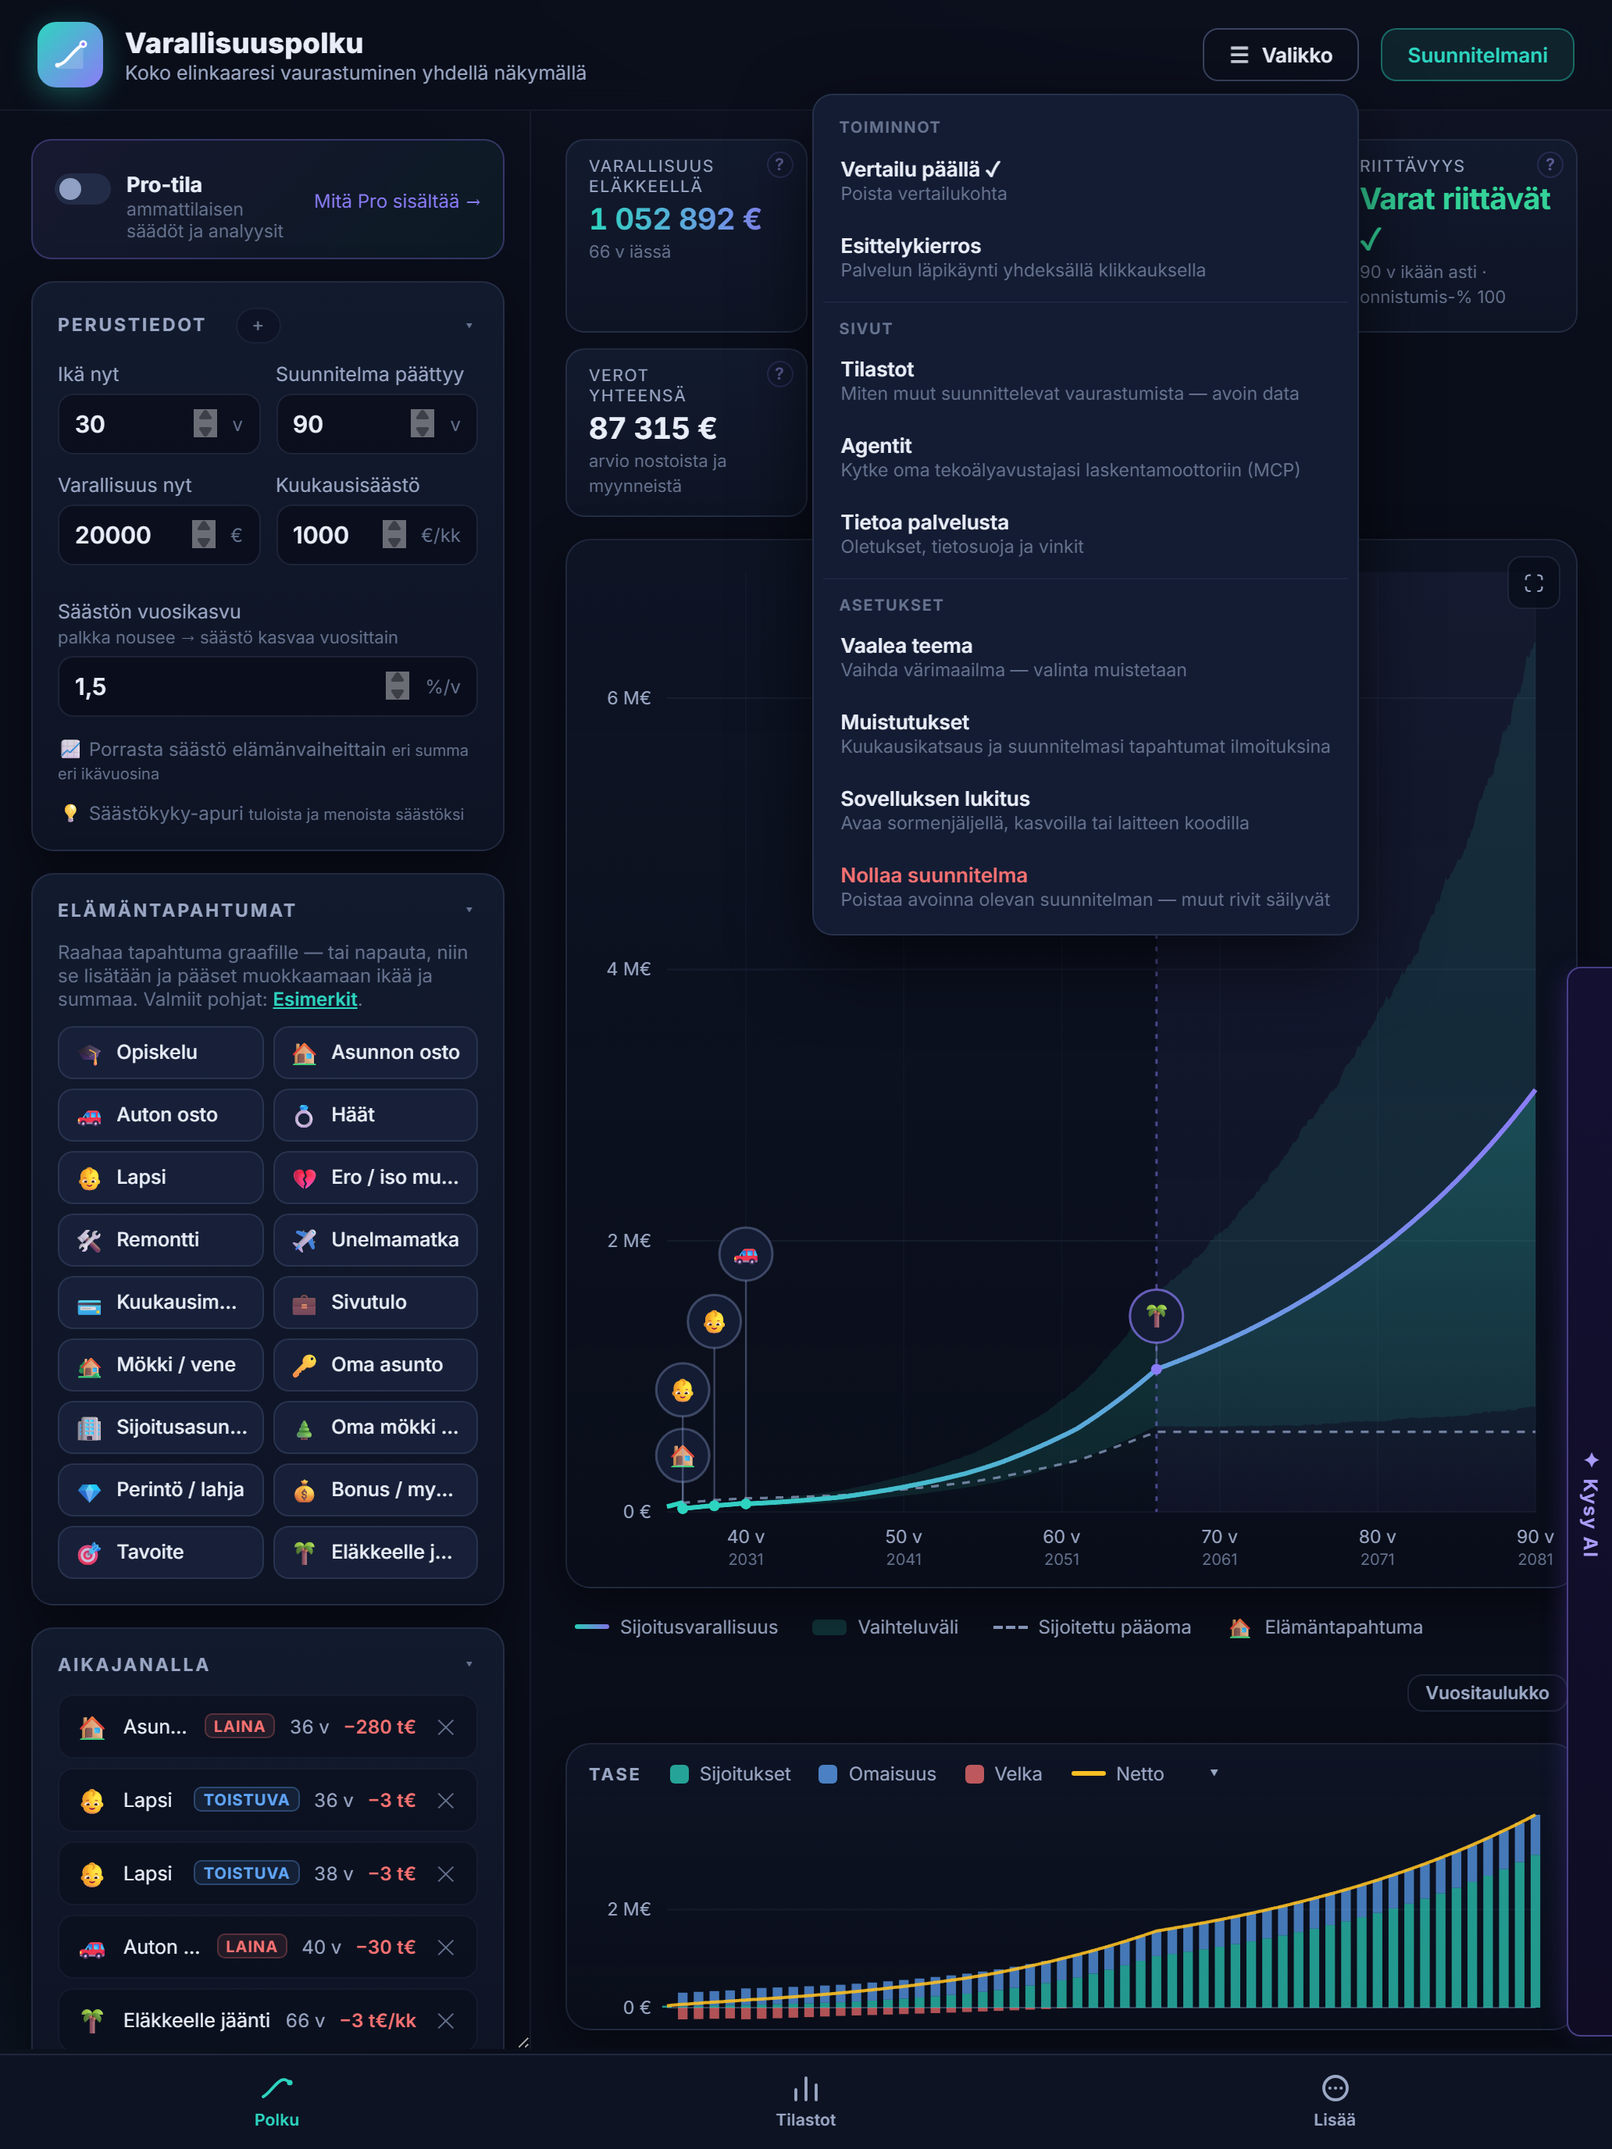
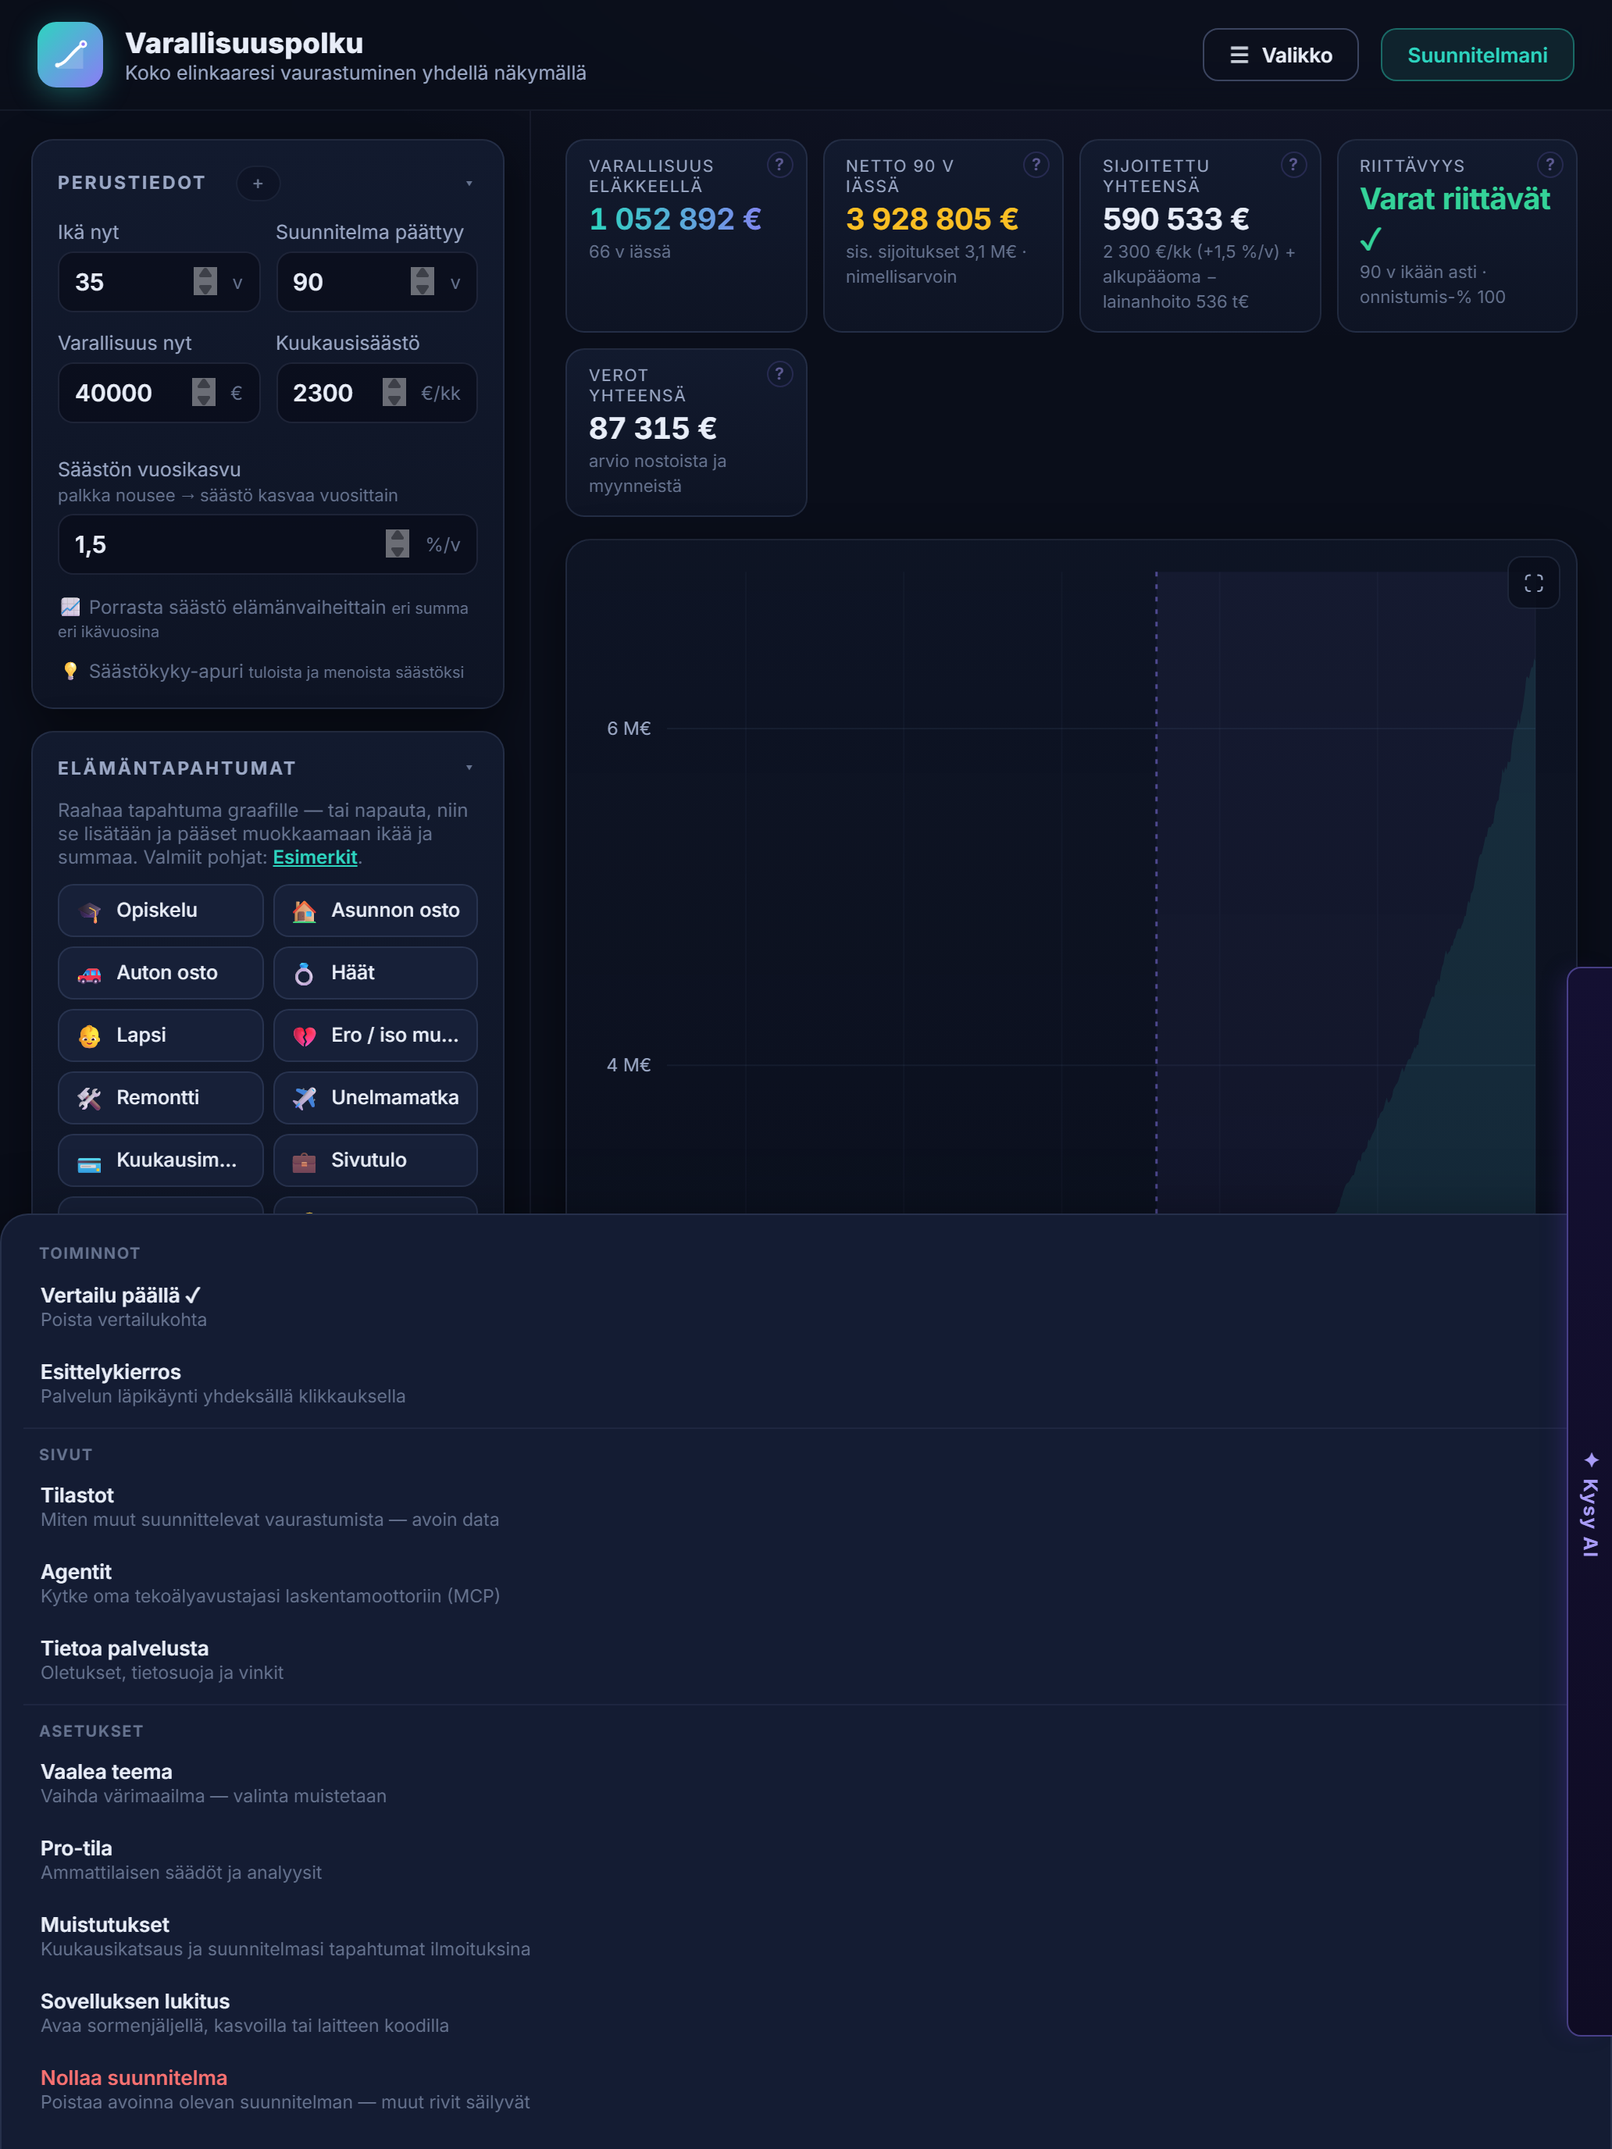
Appin käytettävyyserä (Olavin laitehavainnot #2, kaikki neljä esitystä hyväksytty): (1) Valikot bottom sheetinä appissa — ☰/esimerkit nousevat alhaalta koko leveydeltä (CSS-ohitus alapalkki.js:ssä), ja Tilastot-sivun Lisää avaa oman sheetin paikan päällä (Agentit, teema, natiivirivit) — ei enää hypp

diff --git a/alapalkki.js b/alapalkki.js
@@ -37,6 +37,17 @@
     /* piirtopöytä ja esittelykierros saavat koko ruudun */
     'body.fs .vp-tabbar{display:none;}',
     'body.fs.vp-has-tabbar{padding-bottom:0 !important;}',
+    /* valikot bottom sheetinä: appimainen tapa — nousee alhaalta koko leveydeltä
+       (sovellus.js asemoi valikon inlinena ankkurin alle → !important ohittaa) */
+    'body.vp-has-tabbar .menu{position:fixed !important;top:auto !important;left:0 !important;right:0 !important;bottom:0 !important;',
+    ' max-width:none;border-radius:18px 18px 0 0;border-bottom:0;max-height:75vh;overflow-y:auto;z-index:130;',
+    ' padding:10px 14px calc(14px + env(safe-area-inset-bottom,0px));animation:vp-sheet-up 0.22s ease;}',
+    '@keyframes vp-sheet-up{from{transform:translateY(28px);opacity:0.5}to{transform:none;opacity:1}}',
+    /* appin etusivu tiiviimmäksi (Olavin laitehavainnot 5.8.): UKK-kortti on
+       webin hakukonesisältöä — appissa sama tieto on valikon Tietoa-sivulla;
+       Pro-kytkin siirtyy valikon Asetuksiin (sovellus.js lisää rivin) */
+    'body.vp-has-tabbar .card[data-card=about]{display:none;}',
+    'body.vp-has-tabbar .pro-switch{display:none;}',
   ].join('');
 
   var ICONS = {
@@ -44,6 +55,54 @@
     tilastot: '<svg width="22" height="22" viewBox="0 0 22 22" fill="none" stroke="currentColor" stroke-width="1.9" stroke-linecap="round" aria-hidden="true"><line x1="4.5" y1="18.5" x2="4.5" y2="12"/><line x1="11" y1="18.5" x2="11" y2="4.5"/><line x1="17.5" y1="18.5" x2="17.5" y2="9"/></svg>',
     lisaa: '<svg width="22" height="22" viewBox="0 0 22 22" fill="none" stroke="currentColor" stroke-width="1.9" stroke-linecap="round" aria-hidden="true"><circle cx="11" cy="11" r="7.5"/><circle cx="7.4" cy="11" r="1.05" fill="currentColor" stroke="none"/><circle cx="11" cy="11" r="1.05" fill="currentColor" stroke="none"/><circle cx="14.6" cy="11" r="1.05" fill="currentColor" stroke="none"/></svg>',
   };
+
+  /* Tilastot-sivun Lisää-sheet: samat ryhmät kuin ☰-valikossa siltä osin kuin
+     ne toimivat ilman etusivun skriptejä; natiivirivit (muistutukset, lukitus)
+     tulevat natiivilisat.js:n koukusta. */
+  var sheetEl = null;
+  function suljeSheet() {
+    if (sheetEl) { sheetEl.remove(); sheetEl = null; document.removeEventListener('click', sheetUlkoklikki, true); }
+  }
+  function sheetUlkoklikki(e) {
+    if (sheetEl && !sheetEl.contains(e.target)) suljeSheet();
+  }
+  function vaihdaTeema() {
+    var light = !document.documentElement.classList.contains('light');
+    document.documentElement.classList.toggle('light', light);
+    var m = document.querySelector('meta[name="theme-color"]');
+    if (m) m.setAttribute('content', light ? '#eef1f8' : '#0a0e1a');
+    try { localStorage.setItem('vp-theme', light ? 'light' : 'dark'); } catch (e) {}
+  }
+  function avaaSheet() {
+    if (sheetEl) { suljeSheet(); return; }
+    var menu = document.createElement('div');
+    menu.className = 'menu';
+    var sect = function (label) {
+      var s = document.createElement('div');
+      s.className = 'msect';
+      s.textContent = label;
+      menu.appendChild(s);
+    };
+    var add = function (id, name, desc, fn) {
+      var b = document.createElement('button');
+      b.id = id;
+      b.innerHTML = '<div>' + name + '</div><div class="mdesc">' + desc + '</div>';
+      b.addEventListener('click', function () { suljeSheet(); if (fn) fn(); });
+      menu.appendChild(b);
+      return b;
+    };
+    sect('Sivut');
+    add('mi-agents', 'Agentit', 'Kytke oma tekoälyavustajasi laskentamoottoriin (MCP)',
+      function () { location.href = './agentit.html'; });
+    sect('Asetukset');
+    add('mi-theme',
+      document.documentElement.classList.contains('light') ? 'Tumma teema' : 'Vaalea teema',
+      'Vaihda värimaailma — valinta muistetaan', vaihdaTeema);
+    if (window.vpNativeMenu) window.vpNativeMenu(add);
+    document.body.appendChild(menu);
+    sheetEl = menu;
+    setTimeout(function () { document.addEventListener('click', sheetUlkoklikki, true); }, 0);
+  }
 
   function tab(id, label, act) {
     var el = document.createElement('button');
@@ -80,9 +139,9 @@
       if (typeof window.openMoreMenu === 'function' && btn) {
         window.openMoreMenu(btn);
       } else {
-        /* tilastosivulla ☰-valikkoa ei ole — avataan kotisivun valikko perillä */
-        try { sessionStorage.setItem('vp-avaa-valikko', '1'); } catch (e) {}
-        location.href = './index.html';
+        /* tilastosivulla ☰-valikkoa ei ole — oma sheet suoraan tässä,
+           ei hyppyä etusivulle (Olavin laitehavainto 5.8.) */
+        avaaSheet();
       }
     });
 

diff --git a/testit/selain/verify-natiivilisat.js b/testit/selain/verify-natiivilisat.js
@@ -30,6 +30,10 @@ server.listen(8134, async () => {
       localStorage.setItem('vp-autotour-off', '1');
       localStorage.setItem('vp-veto-vihje', '1');
       if (o.lukitus) localStorage.setItem('vp-lukitus', '1');
+      if (o.plan) {
+        localStorage.setItem('varallisuuspolku-v1', JSON.stringify({ ageNow: 30, ageEnd: 90, startCapital: 10000, monthly: 500, allocStocks: 70, allocBonds: 20, events: [] }));
+        localStorage.setItem('vp-donate-v1', JSON.stringify({ donatedHash: 'abc' }));
+      }
       if (!o.native) return;
       window.__lnSchedule = [];
       window.__lnCancel = [];
@@ -183,14 +187,47 @@ server.listen(8134, async () => {
   ok(pohja.dBottom <= pohja.barTop, 'disclaimer palkin yläpuolella pohjaskrollissa (' + pohja.dBottom + ' ≤ ' + pohja.barTop + ')');
   await ctx.close();
 
-  // 10) Web ilman Capacitoria: ei mitään natiivilisiä
+  // 10) Appin tiivis etusivu (Olavin laitehavainnot): UKK-kortti ja Pro-rivi
+  //     piilossa, tase kiinni oletuksena, Pro-kytkin valikossa, valikko sheetinä
+  ({ ctx, pg } = await page({ native: true }));
+  ok(await pg.evaluate(() => getComputedStyle(document.querySelector('.card[data-card=about]')).display) === 'none', 'UKK-kortti piilossa appissa');
+  ok(await pg.evaluate(() => getComputedStyle(document.querySelector('.pro-switch')).display) === 'none', 'Pro-rivi piilossa appissa');
+  ok(await pg.evaluate(() => document.getElementById('balancePanel').classList.contains('collapsed')), 'tase kiinni oletuksena appissa');
+  await pg.click('#moreBtn');
+  await pg.waitForTimeout(300);
+  ok(await pg.locator('#mi-pro').count() === 1, 'Pro-kytkin valikossa appissa');
+  const sheetR = await pg.evaluate(() => {
+    const r = document.querySelector('.menu').getBoundingClientRect();
+    return { bottom: Math.round(r.bottom), left: Math.round(r.left), ih: window.innerHeight };
+  });
+  ok(sheetR.bottom === sheetR.ih && sheetR.left === 0, 'valikko avautuu bottom sheetinä (' + JSON.stringify(sheetR) + ')');
+  await ctx.close();
+
+  // 11) Tilastot-sivun Lisää avaa sheetin paikan päällä — ei hyppyä etusivulle
+  //     (suunnitelma + jako kylvetty: ilman niitä sivun portti peittäisi palkin)
+  ({ ctx, pg } = await page({ native: true, url: '/analytiikka.html', plan: true }));
+  await pg.click('.vp-tab:nth-child(3)');
+  await pg.waitForTimeout(400);
+  ok(/analytiikka\.html/.test(pg.url()), 'Lisää ei vaihda sivua Tilastoissa');
+  ok(await pg.locator('.menu #mi-theme').count() === 1 && await pg.locator('.menu #mi-muistutukset').count() === 1, 'sheetissä teema ja natiivirivit');
+  await pg.click('.menu #mi-muistutukset');
+  await pg.waitForTimeout(400);
+  ok(await pg.evaluate(() => localStorage.getItem('vp-muistutukset')) === '1', 'muistutukset kytkeytyvät Tilastot-sivulta');
+  ok(await pg.locator('.toast.show').count() === 1, 'varatoast antaa palautteen Tilastot-sivulla');
+  await ctx.close();
+
+  // 12) Web ilman Capacitoria: ei mitään natiivilisiä
   ({ ctx, pg } = await page({ native: false }));
   ok(await pg.evaluate(() => !window.vpNativeMenu), 'webissä ei valikkokoukkua');
   ok(await pg.locator('#vpLukko').count() === 0, 'webissä ei lukituspeitettä');
   await pg.click('#moreBtn');
   await pg.waitForTimeout(300);
   ok(await pg.locator('#mi-muistutukset').count() === 0, 'webissä ei Muistutukset-riviä');
+  ok(await pg.locator('#mi-pro').count() === 0, 'webissä ei Pro-valikkoriviä (rivi paneelissa)');
   ok(await pg.locator('#mi-theme').count() === 1, 'webin valikko ennallaan');
+  ok(await pg.evaluate(() => getComputedStyle(document.querySelector('.card[data-card=about]')).display) !== 'none', 'UKK-kortti näkyy webissä');
+  ok(await pg.evaluate(() => getComputedStyle(document.querySelector('.pro-switch')).display) !== 'none', 'Pro-rivi näkyy webissä');
+  ok(await pg.evaluate(() => !document.getElementById('balancePanel').classList.contains('collapsed')), 'tase auki oletuksena webissä');
   await ctx.close();
 
   await b.close();

diff --git a/sovellus.js b/sovellus.js
@@ -469,6 +469,19 @@ function openMoreMenu(anchor) {
     'Vaihda värimaailma — valinta muistetaan',
     () => applyTheme(!isLightTheme()));
 
+  // Appi: Pro-kytkin valikossa — etusivun kytkinrivi on appissa piilotettu
+  // (alapalkki.js) etusivun tiivistämiseksi; webissä rivi pysyy paneelissa
+  if (window.vpNativeMenu) {
+    add('mi-pro',
+      state.proOn ? 'Pro-tila päällä ✓' : 'Pro-tila',
+      state.proOn ? 'Poista ammattilaissäädöt käytöstä' : 'Ammattilaisen säädöt ja analyysit',
+      () => {
+        // ensimmäinen kytkentä kulkee esittelysivun kautta kuten webissäkin
+        if (!state.proOn && !proSeen()) { openProModal(); return; }
+        setPro(!state.proOn);
+      });
+  }
+
   // Natiiviappi lisää omat rivinsä (muistutukset, lukitus) — webissä koukkua ei ole
   if (window.vpNativeMenu) window.vpNativeMenu(add);
 
@@ -874,7 +887,13 @@ function bindActions() {
   // Tase-paneelin supistus
   const balanceToggle = $('balanceToggle');
   let balCollapsed = false;
-  try { balCollapsed = localStorage.getItem('vp-balance-collapsed') === '1'; } catch (e) {}
+  try {
+    const s = localStorage.getItem('vp-balance-collapsed');
+    // Appi: tase kiinni ensiavauksessa — graafi ja tunnusluvut hallitsevat
+    // ensinäkymää; napautus avaa ja valinta muistetaan (webissä auki kuten ennen)
+    balCollapsed = s != null ? s === '1'
+      : !!(window.Capacitor && window.Capacitor.isNativePlatform && window.Capacitor.isNativePlatform());
+  } catch (e) {}
   if (balCollapsed) { balPanel.classList.add('collapsed'); balanceToggle.textContent = '▸'; }
   balanceToggle.addEventListener('click', () => {
     const c = balPanel.classList.toggle('collapsed');

diff --git a/natiivilisat.js b/natiivilisat.js
@@ -28,8 +28,19 @@
   function aseta(key, on) {
     try { on ? localStorage.setItem(key, '1') : localStorage.removeItem(key); } catch (e) {}
   }
+  var toastEl2 = null, toastTimer2 = null;
   function ilmoita(msg) {
-    if (typeof toast === 'function') toast(msg);
+    if (typeof toast === 'function') { toast(msg); return; }
+    // tilastosivulla ei ole sovellus.js:n toastia — kevyt varatoteutus samalla tyylillä
+    if (!toastEl2) {
+      toastEl2 = document.createElement('div');
+      toastEl2.className = 'toast';
+      document.body.appendChild(toastEl2);
+    }
+    toastEl2.textContent = msg;
+    toastEl2.classList.add('show');
+    clearTimeout(toastTimer2);
+    toastTimer2 = setTimeout(function () { toastEl2.classList.remove('show'); }, 2400);
   }
 
   /* ===================== Muistutukset ===================== */

diff --git a/style.css b/style.css
@@ -764,7 +764,12 @@ input[type="range"]::-moz-range-thumb {
   overflow-y: auto;
   background: rgba(6, 10, 20, 0.82);
   backdrop-filter: blur(6px);
-  padding: 24px 16px 48px;
+  /* fixed-peite ohittaa bodyn safe-area-paddingit — napit (Sulje ym.) eivät
+     saa jäädä iOS:n tilapalkin alle; selaimessa env() on 0 */
+  padding: calc(24px + env(safe-area-inset-top, 0px))
+           calc(16px + env(safe-area-inset-right, 0px))
+           calc(48px + env(safe-area-inset-bottom, 0px))
+           calc(16px + env(safe-area-inset-left, 0px));
 }
 .sum-bar { max-width: 860px; margin: 0 auto 12px; display: flex; flex-wrap: wrap; gap: 10px; justify-content: flex-end; }
 .sum-sheet {

diff --git a/tyokalut/kauppa-kuvat.js b/tyokalut/kauppa-kuvat.js
@@ -53,6 +53,7 @@ server.listen(8135, async () => {
     // Lavastus: esimerkkipersoona "Perhe ja asunto (35 v)"
     await pg.evaluate(() => {
       applySaved(JSON.parse(JSON.stringify(EXAMPLES[1].data)));
+      syncInputs(); // lomakekentät samaan tilaan graafin kanssa
       renderAll();
     });
     await pg.waitForFunction(() => typeof sim !== 'undefined' && sim && sim.successProb != null && !sim.successStale, null, { timeout: 10000 }).catch(() => {});

diff --git a/sw.js b/sw.js
@@ -5,7 +5,7 @@
    välimuistista. Näin julkaisut päivittyvät heti kun verkko on käytössä,
    mutta sovellus toimii myös kokonaan ilman yhteyttä. */
 
-const CACHE = 'varallisuuspolku-v30'; // bump isoissa julkaisuissa: asennuserä pysyy eheänä parina
+const CACHE = 'varallisuuspolku-v31'; // bump isoissa julkaisuissa: asennuserä pysyy eheänä parina
 const CORE = [
   './',
   './index.html',
